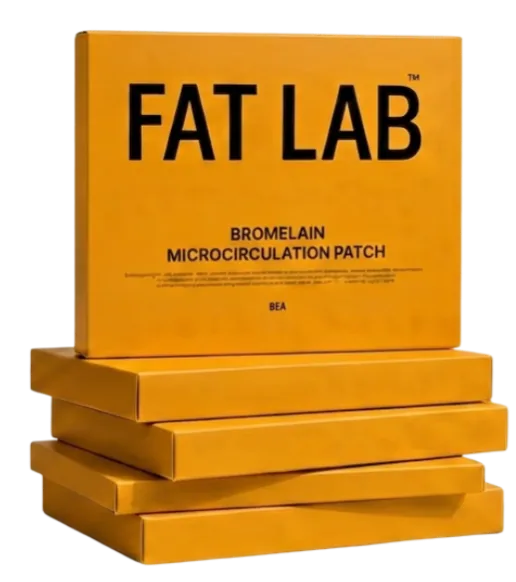
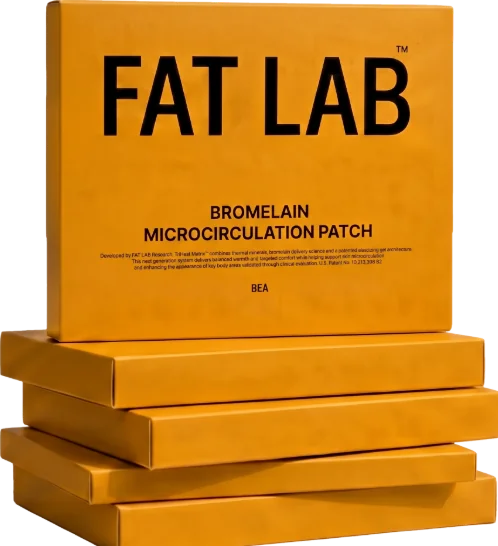
changed images, fixed parallax behavior, deleted dots on images, added loader on add to cart button, fixed leaf last section

diff --git a/src/common/widgets/landings/FatLabBromelainPatchLandingWidget/hooks/useParallax.ts b/src/common/widgets/landings/FatLabBromelainPatchLandingWidget/hooks/useParallax.ts
@@ -1,17 +1,13 @@
 import { useEffect } from 'react';
 
 const SELECTOR = '[data-flb-parallax]';
-const CURSOR_RANGE = 40;
 const MAX_SHIFT = 60;
 
 export function useParallax() {
   useEffect(() => {
     if (window.matchMedia('(prefers-reduced-motion: reduce)').matches) return undefined;
 
-    const canHover = window.matchMedia('(hover: hover)').matches;
     let nodes: HTMLElement[] = [];
-    let mouseX = 0;
-    let mouseY = 0;
     let frame = 0;
 
     const update = () => {
@@ -23,32 +19,22 @@ export function useParallax() {
         if (rect.bottom < -200 || rect.top > vh + 200) return;
         const [min, max] = (node.dataset.flbParallaxRange || `${-MAX_SHIFT},${MAX_SHIFT}`).split(',').map(Number);
         const offset = Math.max(min, Math.min(max, (rect.top + rect.height / 2 - vh / 2) * -speed));
-        const x = mouseX * CURSOR_RANGE * speed * 5;
-        const y = offset + mouseY * CURSOR_RANGE * speed * 5;
-        node.style.setProperty('--flb-px', `${x.toFixed(1)}px`);
-        node.style.setProperty('--flb-py', `${y.toFixed(1)}px`);
+        node.style.setProperty('--flb-py', `${offset.toFixed(1)}px`);
       });
     };
     const schedule = () => {
       if (!frame) frame = window.requestAnimationFrame(update);
-    };
-    const onMove = (event: MouseEvent) => {
-      mouseX = event.clientX / window.innerWidth - 0.5;
-      mouseY = event.clientY / window.innerHeight - 0.5;
-      schedule();
     };
 
     nodes = Array.from(document.querySelectorAll<HTMLElement>(SELECTOR));
     schedule();
     window.addEventListener('scroll', schedule, { passive: true });
     window.addEventListener('resize', schedule);
-    if (canHover) window.addEventListener('mousemove', onMove, { passive: true });
 
     return () => {
       if (frame) window.cancelAnimationFrame(frame);
       window.removeEventListener('scroll', schedule);
       window.removeEventListener('resize', schedule);
-      window.removeEventListener('mousemove', onMove);
     };
   }, []);
 }

diff --git a/src/common/widgets/landings/FatLabBromelainPatchLandingWidget/components/LandingCtaButton.tsx b/src/common/widgets/landings/FatLabBromelainPatchLandingWidget/components/LandingCtaButton.tsx
@@ -5,10 +5,16 @@ import { useLandingBuyAction } from '@widgets/landings/ProductLandingWidget/hook
 
 type Props = { className?: string };
 
+// Keeps the spinner visible for at least this long so it reads as a real
+// loading state even when handleBuyClick resolves almost instantly (as it
+// does in the sandbox stub) — on the real site the request itself will
+// usually take longer than this anyway.
+const MIN_LOADING_MS = 450;
+
 export function LandingCtaButton({ className }: Props) {
   const t = useTranslationOnPage('general');
   const { handleBuyClick } = useLandingBuyAction();
-  const [added, setAdded] = useState(false);
+  const [loading, setLoading] = useState(false);
   const timer = useRef<ReturnType<typeof setTimeout>>();
 
   useEffect(() => () => {
@@ -16,17 +22,26 @@ export function LandingCtaButton({ className }: Props) {
   }, []);
 
   const onClick = useCallback(async () => {
-    const wasAdded = await handleBuyClick();
-    if (!wasAdded) return;
-    setAdded(true);
+    if (loading) return;
+    setLoading(true);
+    const start = Date.now();
+    await handleBuyClick();
+    const rest = MIN_LOADING_MS - (Date.now() - start);
     if (timer.current) clearTimeout(timer.current);
-    timer.current = setTimeout(() => setAdded(false), 1800);
-  }, [handleBuyClick]);
+    timer.current = setTimeout(() => setLoading(false), Math.max(rest, 0));
+  }, [handleBuyClick, loading]);
 
   const label = t('ADD_TO_CART_PRODUCT_CARD');
   return (
-    <button type='button' className={classNames('flb-cta', { 'is-added': added }, className)} onClick={onClick}>
-      {added ? `✓ ${label}` : label}
+    <button
+      type='button'
+      className={classNames('flb-cta', { 'is-loading': loading }, className)}
+      onClick={onClick}
+      disabled={loading}
+      aria-busy={loading}
+    >
+      <span className='flb-cta__label'>{label}</span>
+      <span className='flb-cta__spinner' aria-hidden='true' />
     </button>
   );
 }

diff --git a/src/common/widgets/landings/FatLabBromelainPatchLandingWidget/sections/HowToUseSection.tsx b/src/common/widgets/landings/FatLabBromelainPatchLandingWidget/sections/HowToUseSection.tsx
@@ -14,9 +14,9 @@ const NUM_SIZES = [[110, 245], [173, 250], [180, 250]] as const;
 const PHOTO_SIZES = [[522, 341], [500, 374], [536, 400]] as const;
 
 const steps = [
-  ['FLB_USAGE_STEP_1', 'FLB_USAGE_STEP_1_TITLE', 'FLB_USAGE_STEP_1_DESCRIPTION'],
-  ['FLB_USAGE_STEP_2', 'FLB_USAGE_STEP_2_TITLE', 'FLB_USAGE_STEP_2_DESCRIPTION'],
-  ['FLB_USAGE_STEP_3', 'FLB_USAGE_STEP_3_TITLE', 'FLB_USAGE_STEP_3_DESCRIPTION'],
+  ['FLB_USAGE_STEP_1_TITLE', 'FLB_USAGE_STEP_1_DESCRIPTION'],
+  ['FLB_USAGE_STEP_2_TITLE', 'FLB_USAGE_STEP_2_DESCRIPTION'],
+  ['FLB_USAGE_STEP_3_TITLE', 'FLB_USAGE_STEP_3_DESCRIPTION'],
 ] as const;
 
 const days = [
@@ -33,10 +33,10 @@ function Steps({ prefix }: { prefix: string }) {
   const t = useTranslationOnPage('landings');
   return (
     <>
-      {steps.map(([numberKey, titleKey, descriptionKey], index) => {
+      {steps.map(([titleKey, descriptionKey], index) => {
         const n = index + 1;
         return (
-          <article className={`${prefix}__step ${prefix}__step--${n}`} key={numberKey}>
+          <article className={`${prefix}__step ${prefix}__step--${n}`} key={titleKey}>
             <img
               className={`${prefix}__num`}
               src={asset(`usage-num-${n}.svg`)}
@@ -59,7 +59,8 @@ function Steps({ prefix }: { prefix: string }) {
                 loading='lazy'
                 decoding='async'
               />
-              <span className={`${prefix}__badge`}>{t(numberKey)}</span>
+              {/* invisible spacer: keeps the title/description where the number badge used to sit */}
+              <span className={`${prefix}__badge-spacer`} aria-hidden='true' />
               <h3>{t(titleKey)}</h3>
               <p>{t(descriptionKey)}</p>
             </div>

diff --git a/src/common/widgets/landings/FatLabBromelainPatchLandingWidget/sections/_usage.scss b/src/common/widgets/landings/FatLabBromelainPatchLandingWidget/sections/_usage.scss
@@ -88,6 +88,12 @@
     p { white-space: pre-line; margin-top: 0.972cqi; font-size: clamp(9.5px, 1.111cqi, 16px); font-weight: 400; line-height: 1.3; }
   }
 
+  & &__badge-spacer {
+    display: block;
+    width: 2.222cqi;
+    height: 2.222cqi;
+  }
+
   & &__photo {
     position: absolute;
     z-index: 0;
@@ -95,20 +101,6 @@
     width: 100%;
     height: 100%;
     object-fit: cover;
-  }
-
-  & &__badge {
-    display: flex;
-    align-items: center;
-    justify-content: center;
-    width: 2.222cqi;
-    height: 2.222cqi;
-    border-radius: 50%;
-    background: var(--flb-ink);
-    color: #fff;
-    font-size: clamp(11px, 0.972cqi, 14px);
-    font-weight: 600;
-    line-height: 1;
   }
 
   &__leaf {
@@ -308,6 +300,12 @@
     p { margin-top: 1.5%; font-size: flb-fluid(14); font-weight: 400; letter-spacing: -0.01em; line-height: 1.3; }
   }
 
+  & &__badge-spacer {
+    display: block;
+    width: clamp(22px, 7%, 30px);
+    aspect-ratio: 1;
+  }
+
   & &__photo {
     position: absolute;
     z-index: 0;
@@ -317,19 +315,6 @@
     object-fit: cover;
   }
 
-  & &__badge {
-    display: flex;
-    align-items: center;
-    justify-content: center;
-    width: clamp(22px, 7%, 30px);
-    aspect-ratio: 1;
-    border-radius: 50%;
-    background: var(--flb-ink);
-    color: #fff;
-    font-size: 12px;
-    font-weight: 600;
-    line-height: 1;
-  }
 
   &__leaf {
     position: absolute;

diff --git a/src/copy.ts b/src/copy.ts
@@ -58,15 +58,12 @@ const translations: Record<string, string> = {
   FLB_SAFETY_MODEL_ALT: 'Патч FAT LAB на тілі',
   FLB_USAGE_TITLE: 'Наклей — і дозволь патчу працювати',
   FLB_USAGE_STEP_LABEL: 'крок',
-  FLB_USAGE_STEP_1: '1',
-  FLB_USAGE_STEP_2: '2',
-  FLB_USAGE_STEP_3: '3',
   FLB_USAGE_STEP_1_TITLE: 'Підготуй шкіру',
   FLB_USAGE_STEP_1_DESCRIPTION: 'Очисть потрібну зону та переконайся, що шкіра суха',
   FLB_USAGE_STEP_2_TITLE: 'Наклей патч',
   FLB_USAGE_STEP_2_DESCRIPTION: 'Зніми захисну плівку, приклади патч до шкіри та добре притисни',
   FLB_USAGE_STEP_3_TITLE: 'Залиш на 4–8 годин',
-  FLB_USAGE_STEP_3_DESCRIPTION: 'Носи його вдень або залиш на\nніч — як зручніше тобі',
+  FLB_USAGE_STEP_3_DESCRIPTION: 'Носи його вдень або залиш на ніч — як зручніше тобі',
   FLB_USAGE_SCHEDULE_TITLE: 'Як часто використовувати?',
   FLB_USAGE_SCHEDULE_DESCRIPTION: 'Для регулярного догляду бренд рекомендує використовувати FAT LAB через день протягом 3–4 тижнів',
   FLB_USAGE_DAY_1: 'День 1',

diff --git a/src/common/widgets/landings/FatLabBromelainPatchLandingWidget/sections/FinalCtaSection.tsx b/src/common/widgets/landings/FatLabBromelainPatchLandingWidget/sections/FinalCtaSection.tsx
@@ -82,8 +82,8 @@ export function FinalCtaSection() {
             <img
               className='flb-final__product'
               src={asset('final-product.webp')}
-              width={1062}
-              height={1198}
+              width={1023}
+              height={1137}
               alt={t('FLB_FINAL_PRODUCT_ALT')}
               loading='lazy'
               decoding='async'
@@ -133,8 +133,8 @@ export function FinalCtaSection() {
               <img
                 className='flb-final-m__product'
                 src={asset('final-product-m.webp')}
-                width={516}
-                height={582}
+                width={498}
+                height={546}
                 alt={t('FLB_FINAL_PRODUCT_ALT')}
                 loading='lazy'
                 decoding='async'
@@ -143,8 +143,8 @@ export function FinalCtaSection() {
                 className='flb-final-m__leaf'
                 data-flb-parallax='0.09'
                 src={asset('final-leaf-m.webp')}
-                width={262}
-                height={248}
+                width={324}
+                height={340}
                 alt=''
                 aria-hidden='true'
                 loading='lazy'

diff --git a/src/common/widgets/landings/FatLabBromelainPatchLandingWidget/index.scss b/src/common/widgets/landings/FatLabBromelainPatchLandingWidget/index.scss
@@ -130,7 +130,8 @@ $flb-fluid-bump: 1;
   font-weight: 600;
   line-height: 1;
   text-transform: uppercase;
-  transition: transform 180ms ease, box-shadow 180ms ease, background 180ms ease;
+  position: relative;
+  transition: all 250ms ease-out, color 250ms ease-out;
 
   &:hover {
     transform: translateY(-2px);
@@ -138,8 +139,34 @@ $flb-fluid-bump: 1;
   }
 
   &:active { transform: translateY(0); }
-  &.is-added { background: #3c6f27; }
   &:focus-visible { outline: 2px solid var(--flb-ink); outline-offset: 3px; }
+  &:disabled { cursor: default; }
+
+  &__label { transition: opacity 250ms ease-out; }
+  &.is-loading &__label { opacity: 0; }
+
+  &__spinner {
+    position: absolute;
+    top: 50%;
+    left: 50%;
+    width: 1.25em;
+    height: 1.25em;
+    margin: -0.625em 0 0 -0.625em;
+    border: 0.16em solid currentColor;
+    border-right-color: transparent;
+    border-radius: 50%;
+    opacity: 0;
+    transition: opacity 250ms ease-out;
+  }
+
+  &.is-loading &__spinner {
+    opacity: 1;
+    animation: flb-cta-spin 750ms linear infinite;
+  }
+}
+
+@keyframes flb-cta-spin {
+  to { transform: rotate(1turn); }
 }
 
 .flb-reveal .flb-hero__content > *,

diff --git a/src/common/widgets/landings/FatLabBromelainPatchLandingWidget/sections/_final-cta.scss b/src/common/widgets/landings/FatLabBromelainPatchLandingWidget/sections/_final-cta.scss
@@ -25,7 +25,7 @@
   &__shadow { position: absolute; z-index: 1; }
   &__shadow--left { left: 36.250cqi; top: 41.042cqi; width: 31.847cqi; height: 9.653cqi; }
   &__shadow--right { left: 66.750cqi; top: 46.646cqi; width: 28.597cqi; height: 4.931cqi; }
-  &__product { position: absolute; z-index: 2; left: 57.778cqi; top: 10.208cqi; width: 36.875cqi; height: 41.597cqi; }
+  &__product { position: absolute; z-index: 2; left: 57.778cqi; top: 10.208cqi; width: 36.875cqi; height: 40.984cqi; }
   &__leaf { position: absolute; z-index: 3; left: 79.444cqi; top: 34.028cqi; width: 20.556cqi; height: 21.528cqi; }
 
   &__content {
@@ -212,6 +212,6 @@
   }
 
   &__shadow { position: absolute; z-index: 0; left: 0; top: 74.570%; width: 46.056%; height: auto; }
-  &__product { position: absolute; z-index: 1; left: 28.753%; top: 0; width: 65.649%; height: auto; }
+  &__product { position: absolute; z-index: 1; left: 28.753%; bottom: 0; width: 65.649%; height: auto; }
   &__leaf { position: absolute; z-index: 2; left: 66.667%; top: 57.732%; width: 33.333%; height: auto; }
 }

diff --git a/NOTES.md b/NOTES.md
@@ -105,10 +105,10 @@
 - **Автоматичні перевірки з README (п. 9), прогнано 2026-09-22, усі пройдено:**
   - `npm run typecheck` — `tsc --noEmit` без помилок (exit 0).
   - `npm run build` — `tsc --noEmit && vite build` без помилок; збірка:
-    `dist/assets/index-*.css` 55,63 kB (gzip 9,76 kB), `dist/assets/index-*.js`
-    237,51 kB (gzip 71,73 kB).
+    `dist/assets/index-*.css` 55,80 kB (gzip 9,85 kB), `dist/assets/index-*.js`
+    237,31 kB (gzip 71,66 kB).
   - `npm run check:keys -- src/common/widgets/landings/FatLabBromelainPatchLandingWidget FLB`
-    → `prefix FLB_: 96 keys in code, 96 keys in src/copy.ts` / `OK: keys match`.
+    → `prefix FLB_: 93 keys in code, 93 keys in src/copy.ts` / `OK: keys match`.
   - `npm run check:text -- src/common/widgets/landings/FatLabBromelainPatchLandingWidget`
     →
     `OK: no hardcoded text found in JSX (heuristic — also review each .tsx by eye)`.
